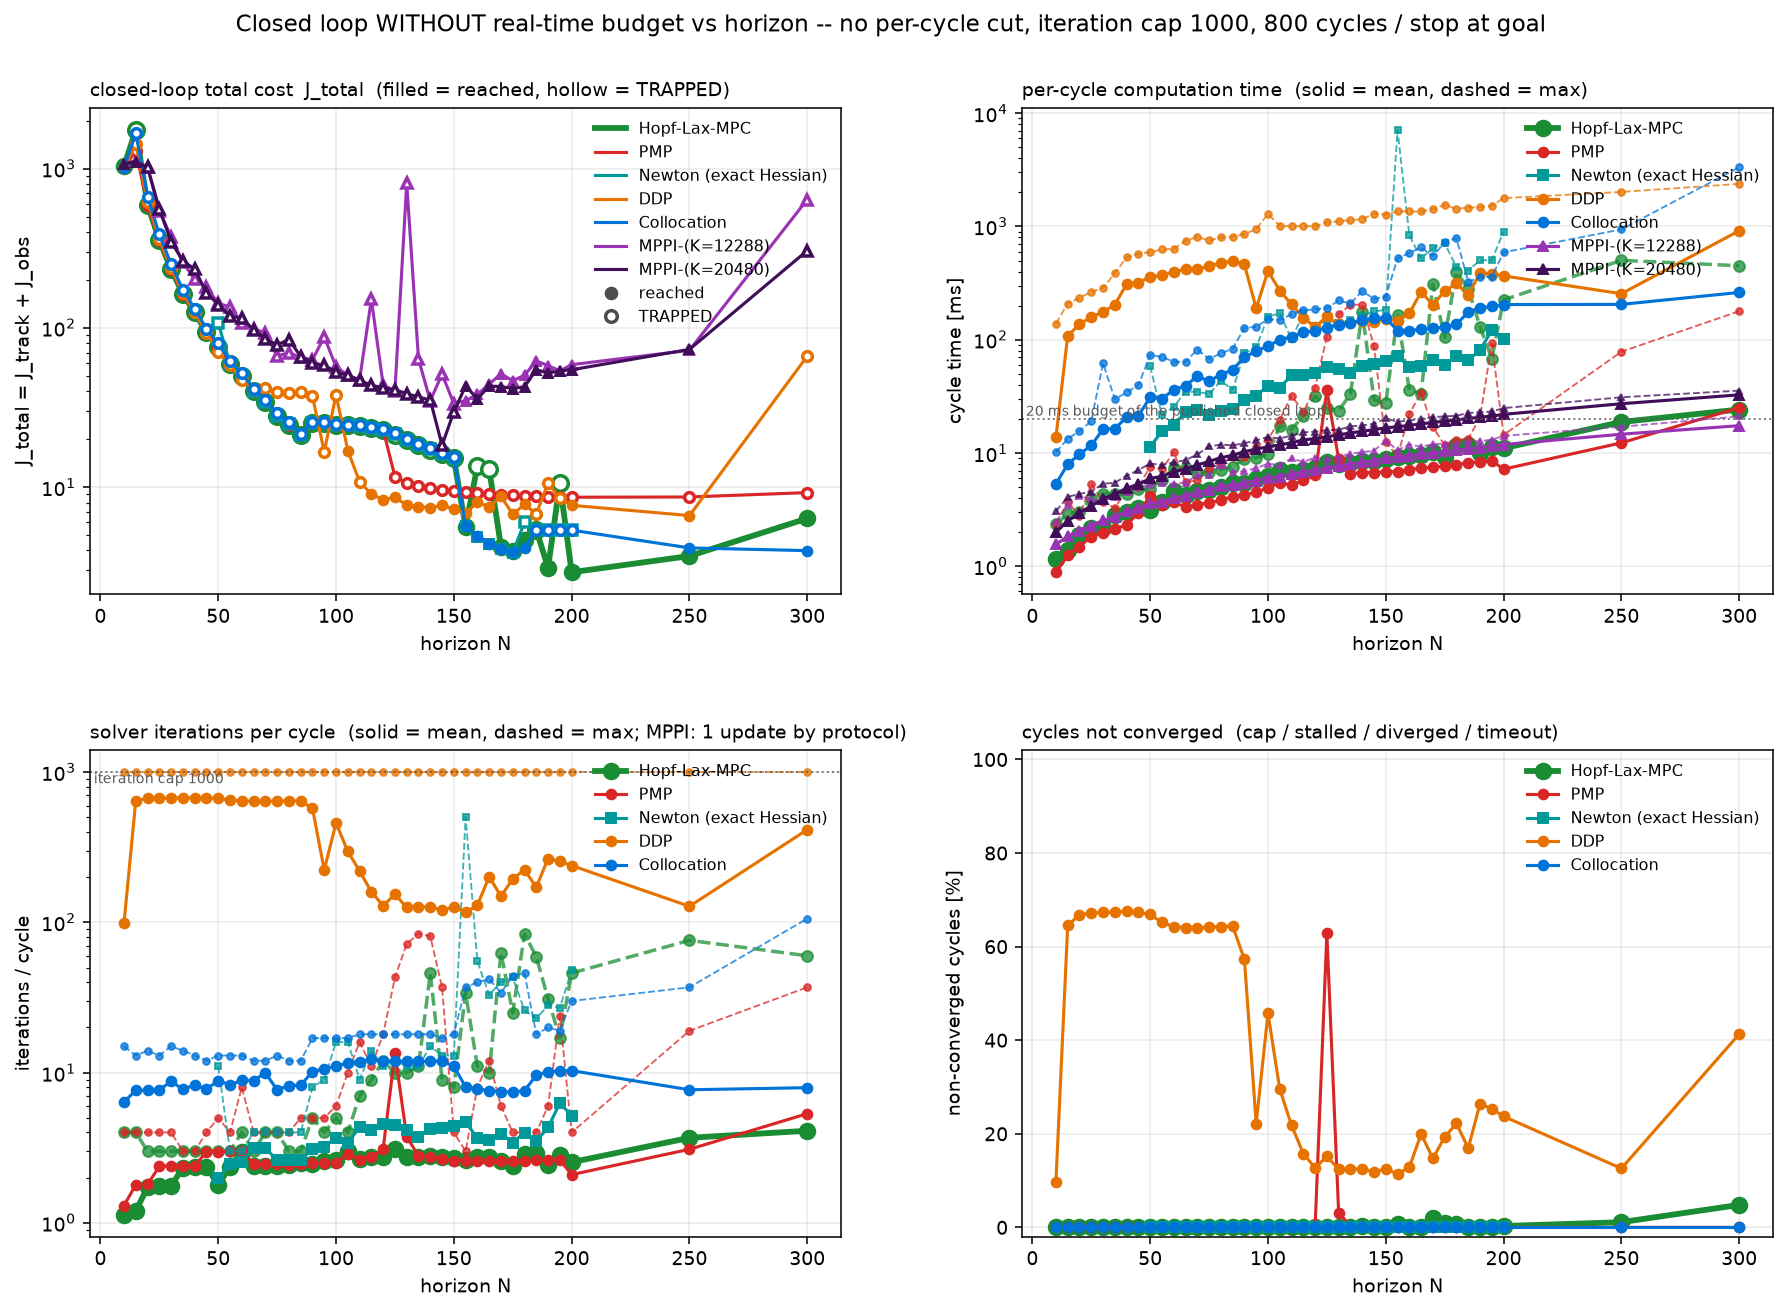
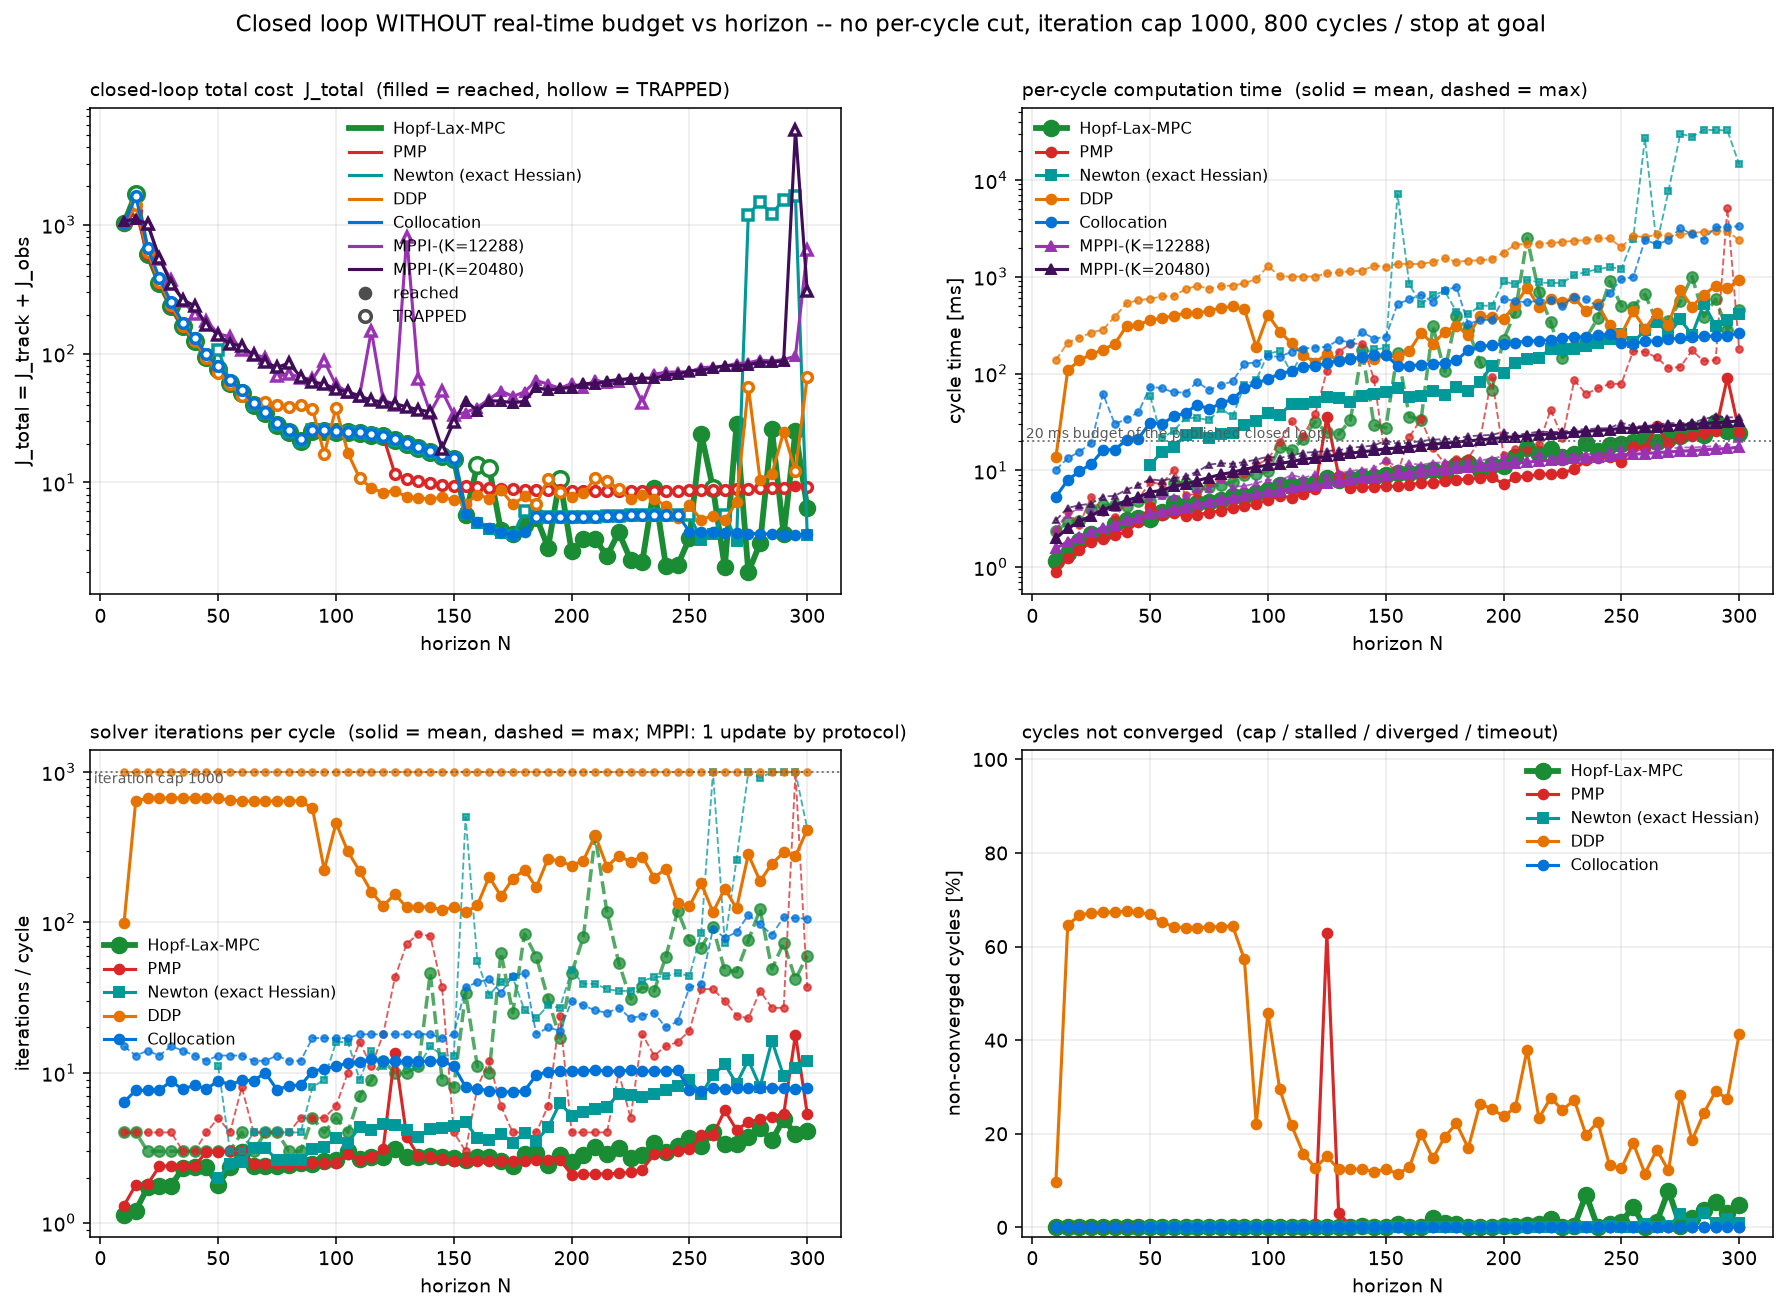
N sweep: extend the dense grid to N=300 for all seven methods (405 runs); figures, table, README

diff --git a/README.md b/README.md
@@ -162,7 +162,7 @@ The closed-loop testbed of section 1 runs every method under a hard 20 ms/cycle 
 horizon each. This experiment removes the budget and sweeps the horizon instead: same scenario,
 obstacles, warm starts and stop-at-goal protocol, but every solver runs to convergence or to an
 iteration cap of 1000 (`lm_maxit`, `ilqr_Kmax`, IPOPT `max_iter`), and N is swept densely from
-10 to 200 in steps of 5, plus 250 and 300 (45 horizons), for all six runners. MPPI keeps its
+10 to 300 in steps of 5 (59 horizons) for all six runners (the Newton baseline from 50 to 300). MPPI keeps its
 published protocol of one sampling update per cycle (there is no iteration loop to unbudget), at
 K = 12288 and K = 20480.
 
@@ -172,15 +172,16 @@ K = 12288 and K = 20480.
 | `plot_N_sweep.py` | the 2 x 2 figure above and a per-(method, N) table |
 | `mpc_testbed_newton.py` | the Newton baseline in the **budgeted** testbed (hard 20 ms cut, viz logging) at N = 55, appended to the recorded six-runner pickle for the seven-runner animation `figs/with_newton/anim_all_methods.mp4` |
 | `mpc_newton.py` | the **Newton (exact Hessian)** baseline: damped Newton on the Hopf-Lax objective with `jax.hessian`, Levenberg damping (H + mu I), batched Armijo line search, gradient-only stopping test; no curvature certificate, no saddle escape. Run with `--methods newton` (not in the default list); `--newton-tol` (1e-4 used), `--hess-mode` |
-| `results_N_sweep_table.txt` | the per-(method, N) table printed by `plot_N_sweep.py` for the recorded sweep (277 runs, Oct 7 2026: 36 sparse runs in 1 h 10 min, 210 dense runs in 4 h 40 min, 31 Newton runs N = 50..200 in 32 min) |
-| `results_N_sweep.pkl` | the recorded per-cycle data behind the figures (32 MB, **not in the repository**; regenerate with the commands below, or ask the authors) |
+| `results_N_sweep_table.txt` | the per-(method, N) table printed by `plot_N_sweep.py` for the recorded sweep (405 runs, Oct 7-8 2026: 36 sparse runs in 1 h 10 min, 210 dense runs in 4 h 40 min, 31 Newton runs N = 50..200 in 32 min, 128 runs for N = 205..300 in 5 h 30 min) |
+| `results_N_sweep.pkl` | the recorded per-cycle data behind the figures (55 MB, **not in the repository**; regenerate with the commands below, or ask the authors) |
 
 ```powershell
 & $py mpc_testbed_N_sweep.py --selftest       # counted solver copies == originals, bitwise
 & $py mpc_testbed_N_sweep.py --smoke           # 60-cycle pipeline check -> results_N_sweep_smoke.pkl
 & $py mpc_testbed_N_sweep.py                   # sparse sweep N=50..300 (resumable; --methods, --Ns, --redo, --cap)
-$Ns = ((2..40 | ForEach-Object { $_ * 5 }) -join ",")                       # 10,15,...,200
-& $py mpc_testbed_N_sweep.py --methods pmp,m1v2,mppi12288,mppi20480,coll,ddp --Ns $Ns   # dense sweep, ~5 h
+$Ns = ((2..60 | ForEach-Object { $_ * 5 }) -join ",")                       # 10,15,...,300
+& $py mpc_testbed_N_sweep.py --methods pmp,m1v2,mppi12288,mppi20480,coll,ddp --Ns $Ns   # dense sweep, ~10 h
+& $py mpc_testbed_N_sweep.py --methods newton --Ns $Ns --newton-tol 1e-4               # Newton baseline, ~2 h
 & $py plot_N_sweep.py                          # -> figs/N_sweep_*.png + table (results_N_sweep_table.txt)
 ```
 
@@ -202,9 +203,19 @@ What the recorded sweep shows (panel by panel):
   magnitude more obstacle cost. PMP is trapped at every horizon. The flips happen for collocation
   too, which converges in every cycle, so in this band they are a property of the receding-horizon
   problem (frozen-obstacle prediction, the fork and the arriving companion, a non-convex route
-  choice), not of a solver. Above 200 the rises are solver failures (see the diagnosis after the
-  figures). Best closed-loop cost: Hopf-Lax-MPC 2.9 at N = 200, collocation 3.9 at N = 175,
-  DDP 6.6 at N = 250, PMP 8.6, MPPI 18 to 33.
+  choice), not of a solver. Best closed-loop cost: Hopf-Lax-MPC 2.0 at N = 275, collocation 3.9
+  at N = 295, DDP 5.1 at N = 265, PMP 8.6, MPPI 18 to 33.
+- **N = 205 to 300.** Hopf-Lax-MPC reaches the goal at 19 of the 20 horizons (trapped only at 260)
+  and holds the lowest cost of all methods, 2.0 to 4.1 at most horizons, but at five horizons (235,
+  255, 270, 285, 295) it reaches with a cost of 9 to 28: those runs contain the stalled-cycle
+  episodes at the fork diagnosed below (up to 8 percent of cycles), which push it onto the wide
+  route. Collocation reaches from N = 250 on with a flat 3.9 to 4.1. DDP reaches at 14 of 20
+  horizons with 5 to 10 and is trapped at 300. PMP stays trapped except at N = 295. MPPI reaches at
+  18 of 20 but with costs of 40 to 100, and collapses at N = 295 to 300 (K = 20480 at 295: 5476).
+  The Newton baseline reaches at 255, 260, 270 and 300 (3.5 to 5.6) but blows up at N = 275 to 295
+  (cost 1200 to 1700, cycle time up to 0.5 s): the exact Hessian becomes strongly indefinite
+  (smallest eigenvalue -2.4) and the damping is raised more than 6000 times per run, the
+  sensitivity of inverting the exact Hessian at long horizons in its purest form.
 - **Time.** Without a budget, Hopf-Lax-MPC and PMP stay at or below the 20 ms line on average up to
   N = 300 (1 to 25 ms, growing with N); collocation costs 5 to 260 ms per cycle; DDP costs 100 to
   900 ms per cycle on average with worst cycles above 2 s, except at N = 10.
